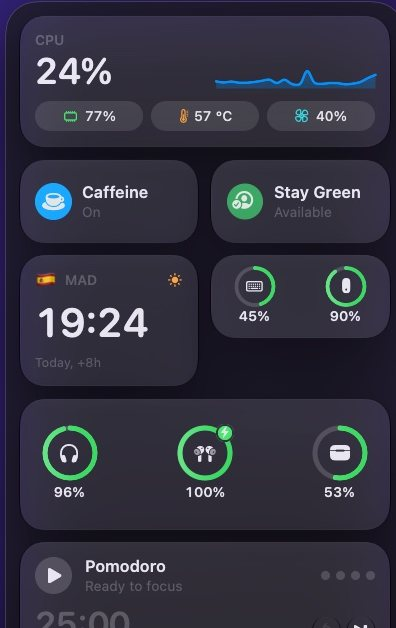
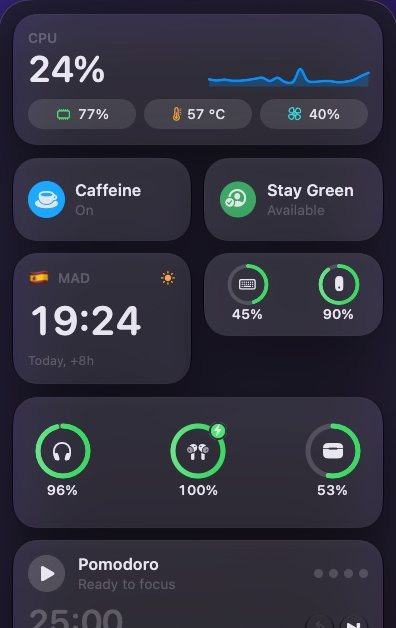
fix: find the panel in the hero for the homepage tile crop
0.1.21 moved the panel 3px right, so the hand-measured box showed a
strip of wallpaper on the tile's left edge (the second time a release
broke it). sync_lumina.py now detects the panel's edges and top in each
hero and crops the tile from them; on the 0.1.20 heroes it lands on the
same box that was measured by hand.

Claude-Session: https://claude.ai/code/session_01F7VshhFY4wxy5jmdGLNZZu

Changed region(s): [[0.0, 0.0, 1.0, 1.0], [0.0909, 0.5748, 0.9091, 0.6354], [0.0909, 0.4841, 0.3636, 0.5446]]

diff --git a/scripts/sync_lumina.py b/scripts/sync_lumina.py
@@ -63,13 +63,14 @@ NUMBERS = "zero one two three four five six seven eight nine ten eleven twelve t
           "fifteen sixteen seventeen eighteen nineteen twenty twenty-one twenty-two twenty-three " \
           "twenty-four twenty-five".split()
 
-# Crops of marketing/hero-{light,dark}.jpg in its 1440x900 coordinates, tuned to its current
-# layout: the panel sits under the menu bar on the right. Re-check them when that layout changes.
-# sync_hero scales them to the 2x hero it crops from.
-HERO_CROPS = {
-    ROOT / "lumina" / "hero-panel-{mode}.jpg": (1000, 0, 1440, 620),           # Lumina page hero
-    ROOT / "resources" / "lumina-panel-{mode}.jpg": (1183, 22, 1381, 336),     # homepage tile peek
-}
+# The Lumina page hero shows the right of marketing/hero-{light,dark}.jpg, in its 1440x900
+# coordinates (sync_hero scales it to the 2x hero it crops from).
+HERO_CROP = (1000, 0, 1440, 620)
+HERO_PANEL = ROOT / "lumina" / "hero-panel-{mode}.jpg"
+# The homepage tile peeks at the top of the panel itself. sync_hero finds the panel in each
+# hero (see panel_box), so the crop follows it when a release moves it by a few pixels.
+TILE_PANEL = ROOT / "resources" / "lumina-panel-{mode}.jpg"
+TILE_ASPECT = 672 / 424  # height / width of the tile's <img>
 
 
 def fetch(path):
@@ -301,14 +302,50 @@ def tool_slug(tool):
     return icon[:-4] if icon.endswith(".svg") else card
 
 
+def rgb_distance(a, b):
+    return sum(abs(p - q) for p, q in zip(a, b))
+
+
+def panel_box(hero):
+    """The panel's box in the hero, found from its edges rather than measured by hand.
+
+    The panel's left and right edges are the only vertical lines on the right half of the
+    screenshot that run through its whole middle band. Its top is where, going up from that
+    band, the panel's grey gives way to the saturated wallpaper.
+    """
+    hero = hero.convert("RGB")
+    px, (w, h) = hero.load(), hero.size
+    rows = range(h // 4, h // 2, 2)
+    edges = [x for x in range(w // 2, w - 2)
+             if sum(rgb_distance(px[x, y], px[x - 2, y]) > 40 for y in rows) > 0.9 * len(rows)]
+    if len(edges) < 2:
+        sys.exit("Couldn't find the panel's edges in the hero; crop it by hand")
+    left, right = edges[0], edges[-1] - 1
+    middle = range(left + (right - left) // 4, right - (right - left) // 4, 2)
+
+    def grey(y):
+        sats = sorted(max(px[x, y]) - min(px[x, y]) for x in middle)
+        return sats[len(sats) // 2] < 30
+
+    top = h // 4
+    while top > 0 and grey(top - 1):
+        top -= 1
+    return left, top, right
+
+
 def sync_hero():
     icon = Image.open(io.BytesIO(fetch("marketing/icon.png")))
     icon.resize((160, 160), Image.LANCZOS).save(ROOT / "resources" / "lumina-icon.png", optimize=True)
     for mode in ("light", "dark"):
         hero = Image.open(io.BytesIO(fetch(f"marketing/2x/hero-{mode}.jpg")))
         scale = hero.width / 1440
-        for target, box in HERO_CROPS.items():
-            save_jpeg(hero.crop(tuple(round(v * scale) for v in box)), Path(str(target).format(mode=mode)))
+        save_jpeg(hero.crop(tuple(round(v * scale) for v in HERO_CROP)), Path(str(HERO_PANEL).format(mode=mode)))
+        left, top, right = panel_box(hero)
+        inset = round(scale)  # skip the edge's anti-aliased pixel
+        left, right = left + inset, right - inset
+        box = (left, top, right, top + round((right - left) * TILE_ASPECT))
+        save_jpeg(hero.crop(box), Path(str(TILE_PANEL).format(mode=mode)))
+        print(f"Panel in the {mode} hero at x {left / scale:g}–{right / scale:g}, top {top / scale:g} (1x)")
     print("Refreshed the icon and panel screenshots")
 
 

diff --git a/.claude/skills/update-lumina-page/SKILL.md b/.claude/skills/update-lumina-page/SKILL.md
@@ -40,8 +40,11 @@ hectorgoan/lumina, is private, so the page never links to it.
 4. When the app's look changed (new icon, redesigned panel), run it with `--hero` too. That
    refreshes `resources/lumina-icon.png` and the panel crops used by the page hero
    (`lumina/hero-panel-*.jpg`) and the homepage tile (`resources/lumina-panel-*.jpg`). The
-   crop boxes in `HERO_CROPS` are in the 1x hero's 1440x900 coordinates and match its current layout; look at the new crops and
-   adjust the boxes if the panel moved.
+   page hero's box, `HERO_CROP`, is in the 1x hero's 1440x900 coordinates. The homepage tile's
+   crop is not a fixed box: `panel_box` finds the panel's edges and top in each hero, so it stays
+   centred when a release nudges the panel. It prints where it found the panel; look at the tile
+   in light and dark anyway, and if it exits saying it couldn't find the edges, the screenshot's
+   layout changed and `panel_box` needs a look.
 5. Check the hand-written copy in `lumina/index.html` against Lumina's README: the hero
    description (the headline "Your desktop’s Swiss Army knife." is Héctor's marketing line,
    shared with the homepage tile, so keep it even if the README tagline differs), "Requires macOS …", and the install steps. Update them if the
